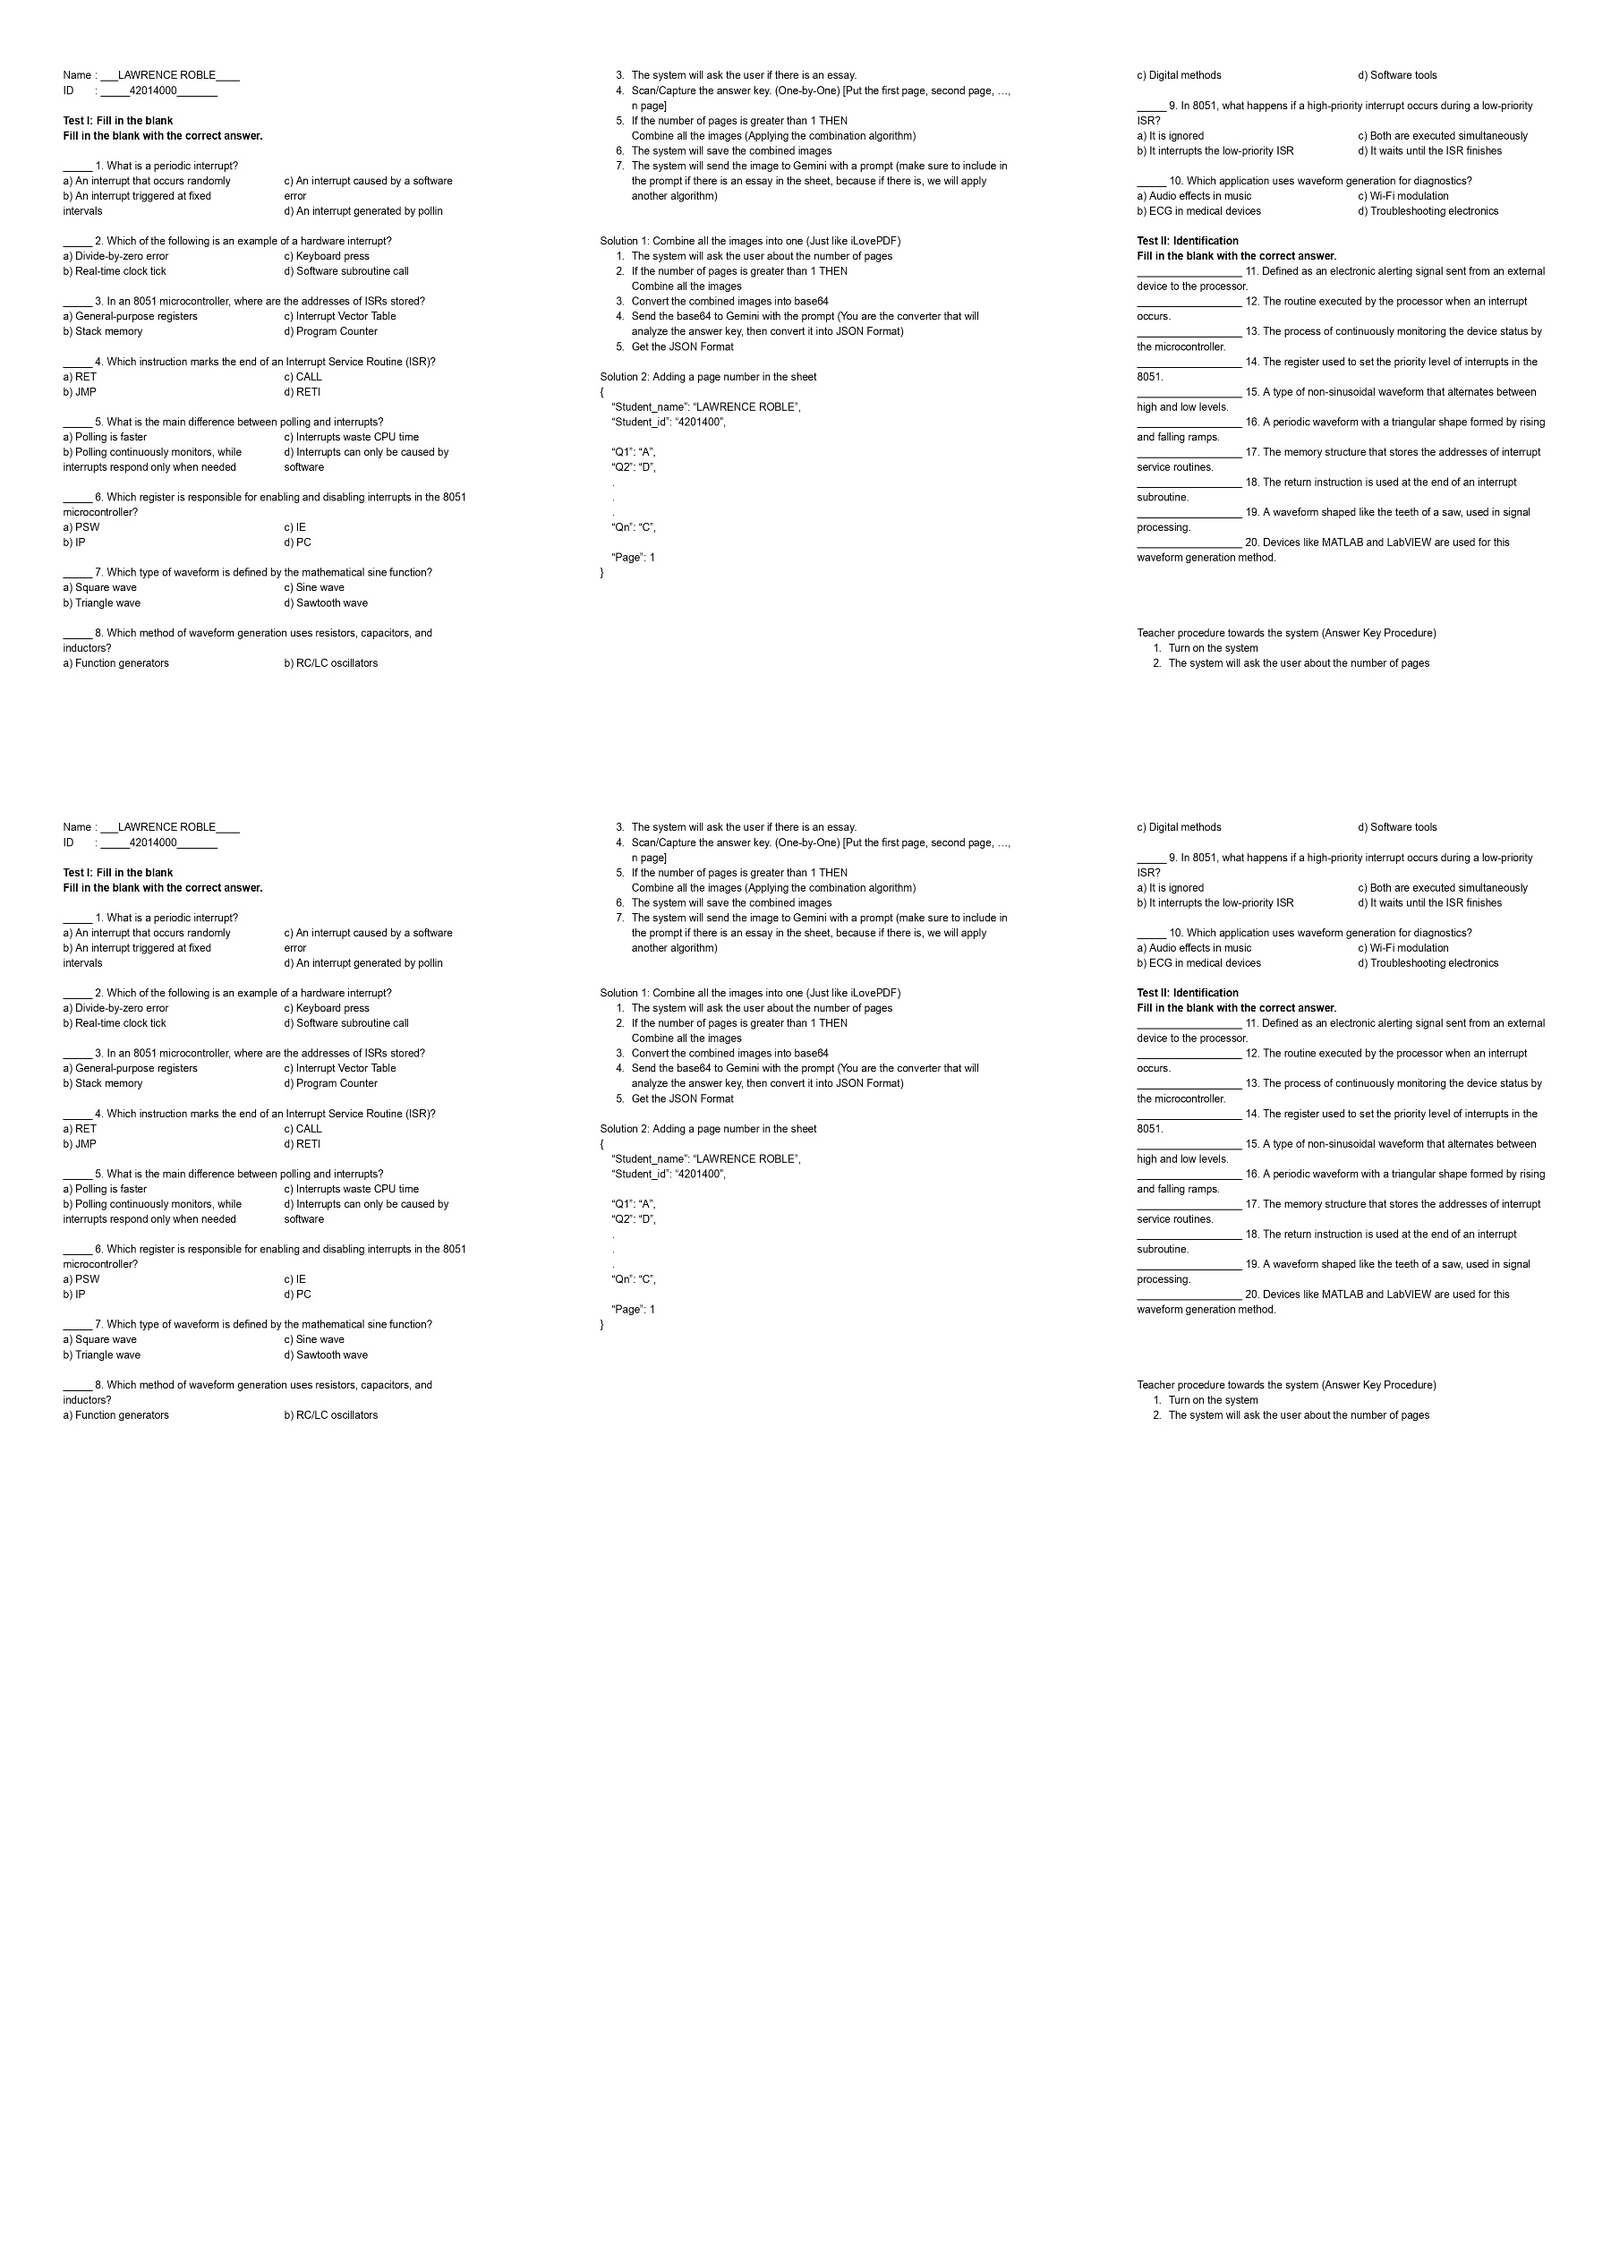
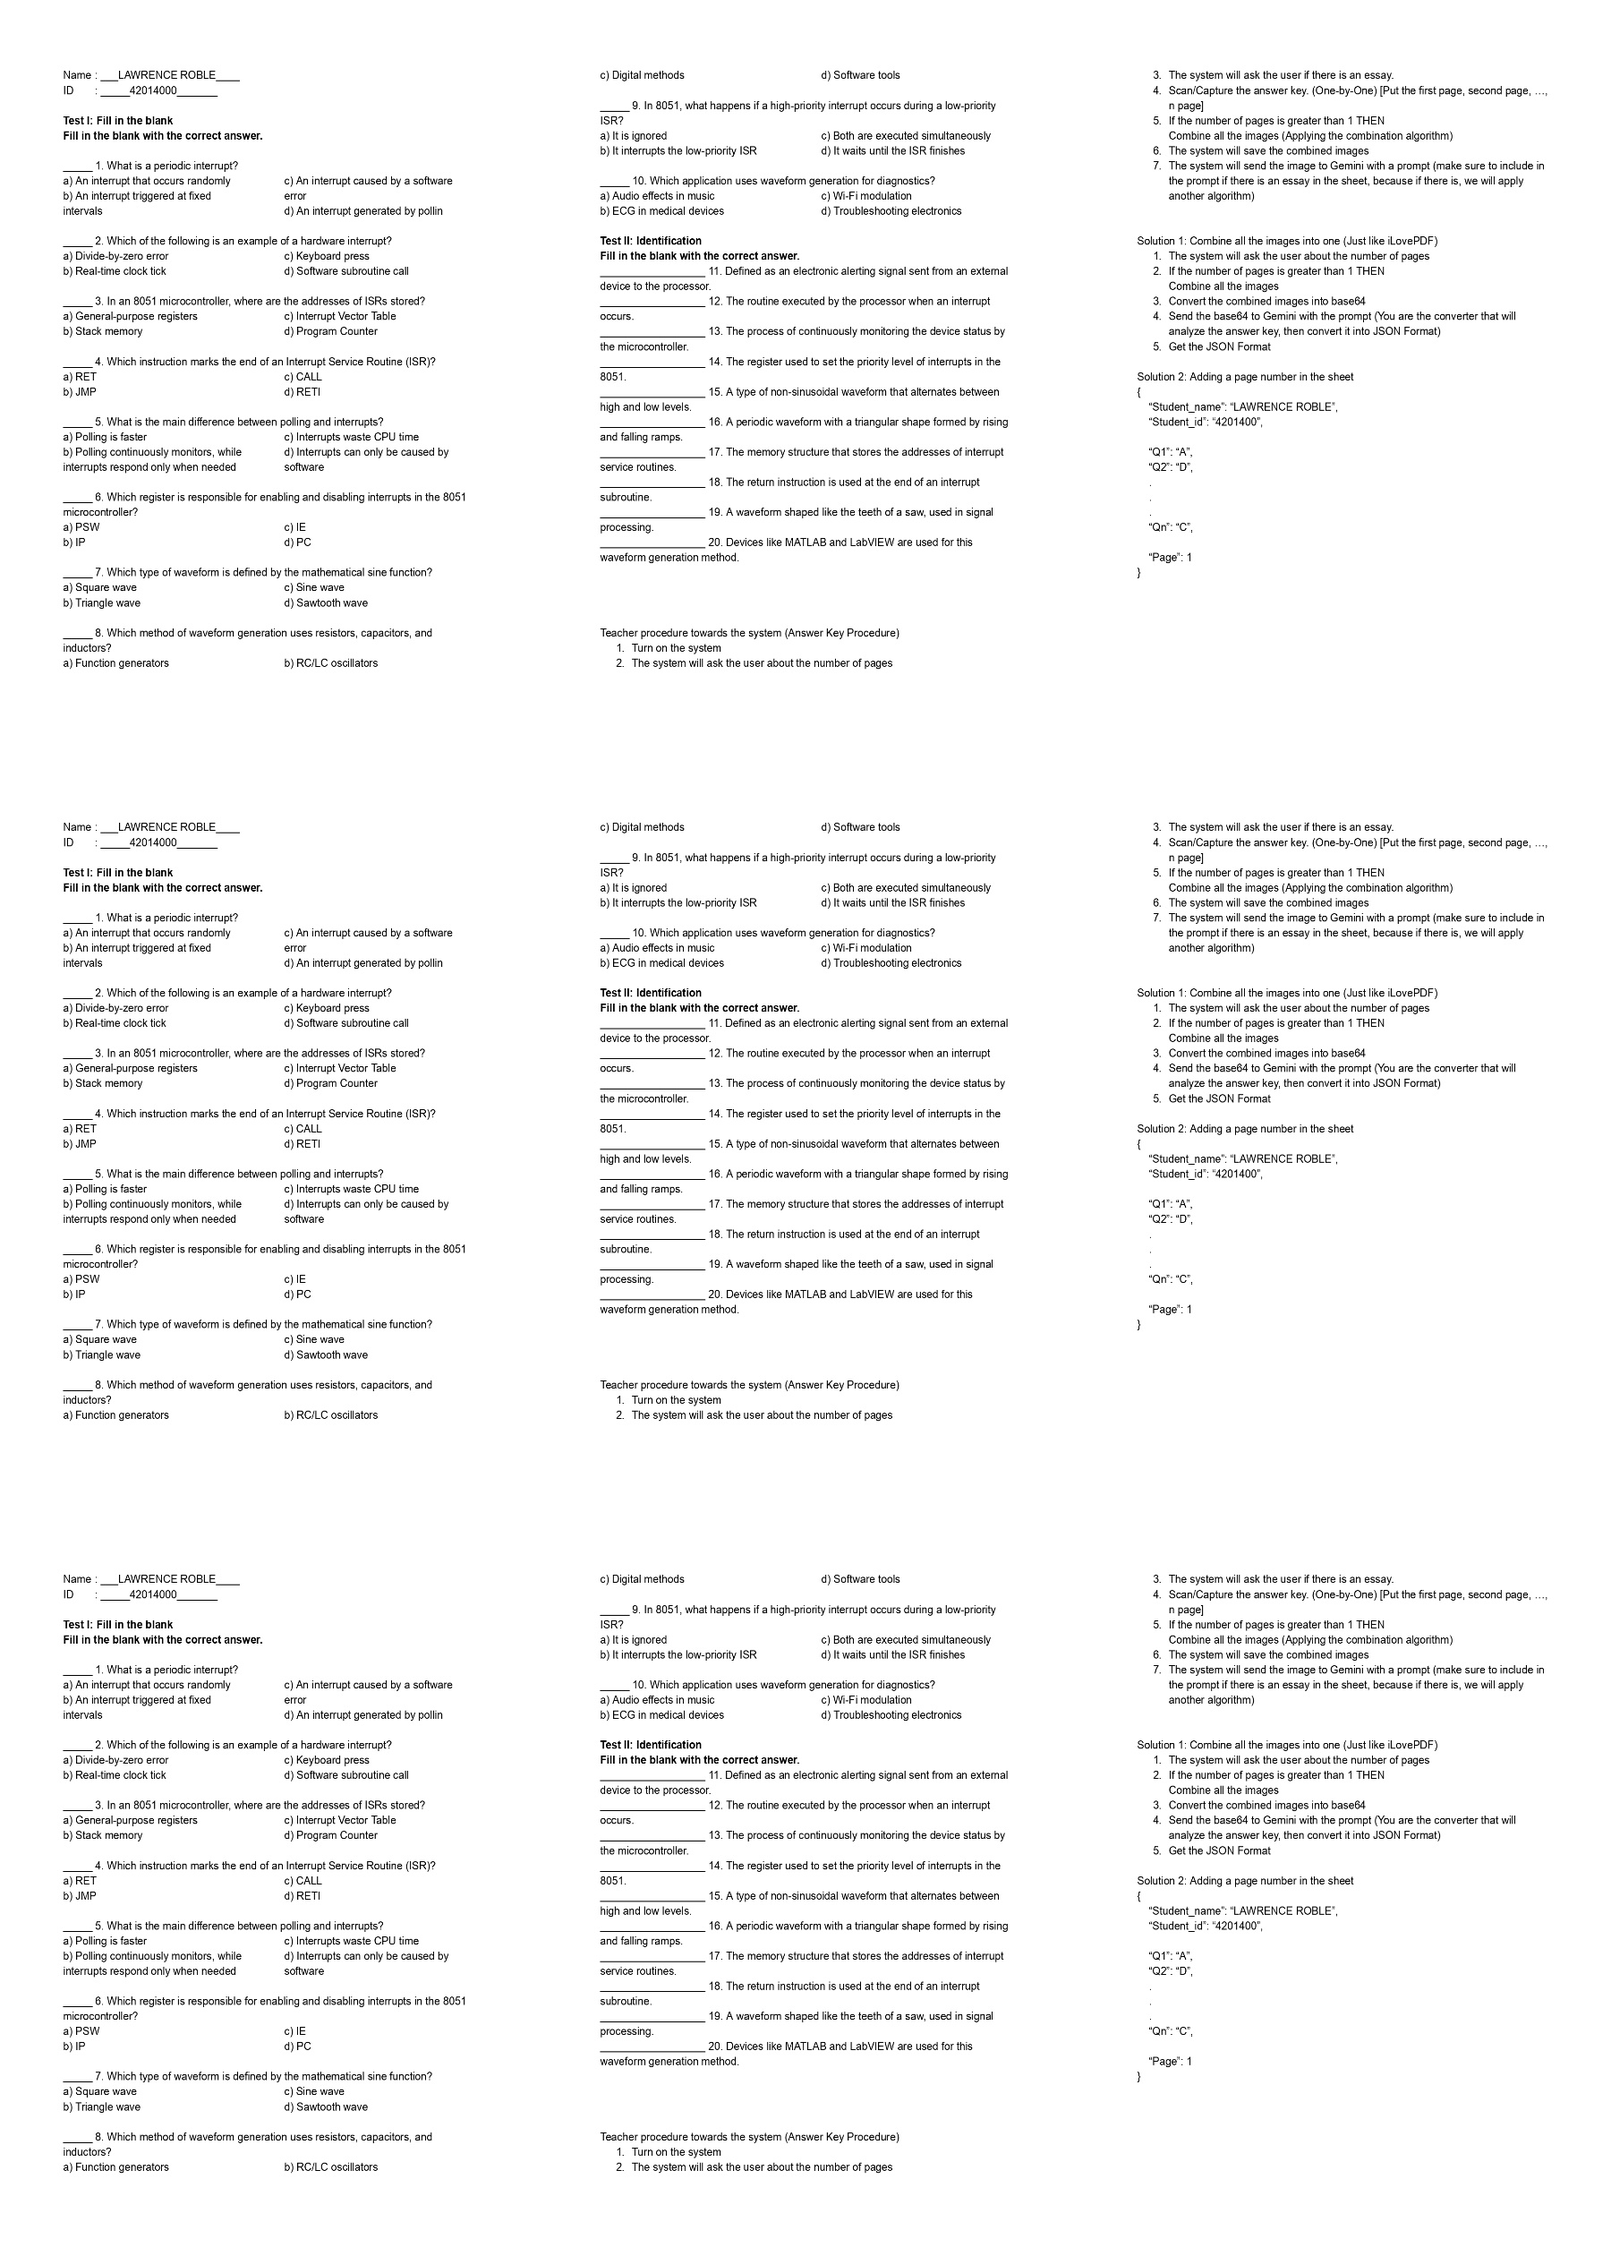
WIP: Analyze the image input sequence, why is that happening?

diff --git a/raspi_code/samples/suggested_grid.py b/raspi_code/samples/suggested_grid.py
@@ -57,11 +57,16 @@ def smart_grid_auto(image_paths, tile_width=400):
 
 images = [
     "images/asnwer_keys/img1.jpg",
-    "images/asnwer_keys/img2.jpg",
     "images/asnwer_keys/img3.jpg",
-    "images/asnwer_keys/img1.jpg",
     "images/asnwer_keys/img2.jpg",
-    "images/asnwer_keys/img3.jpg",
+
+    "images/asnwer_keys/img4.jpg",
+    "images/asnwer_keys/img6.jpg",
+    "images/asnwer_keys/img5.jpg",
+
+    "images/asnwer_keys/img7.jpg",
+    "images/asnwer_keys/img9.jpg",
+    "images/asnwer_keys/img8.jpg",
 ]
 
 combined_img, combined_base64 = smart_grid_auto(images, tile_width=600)
